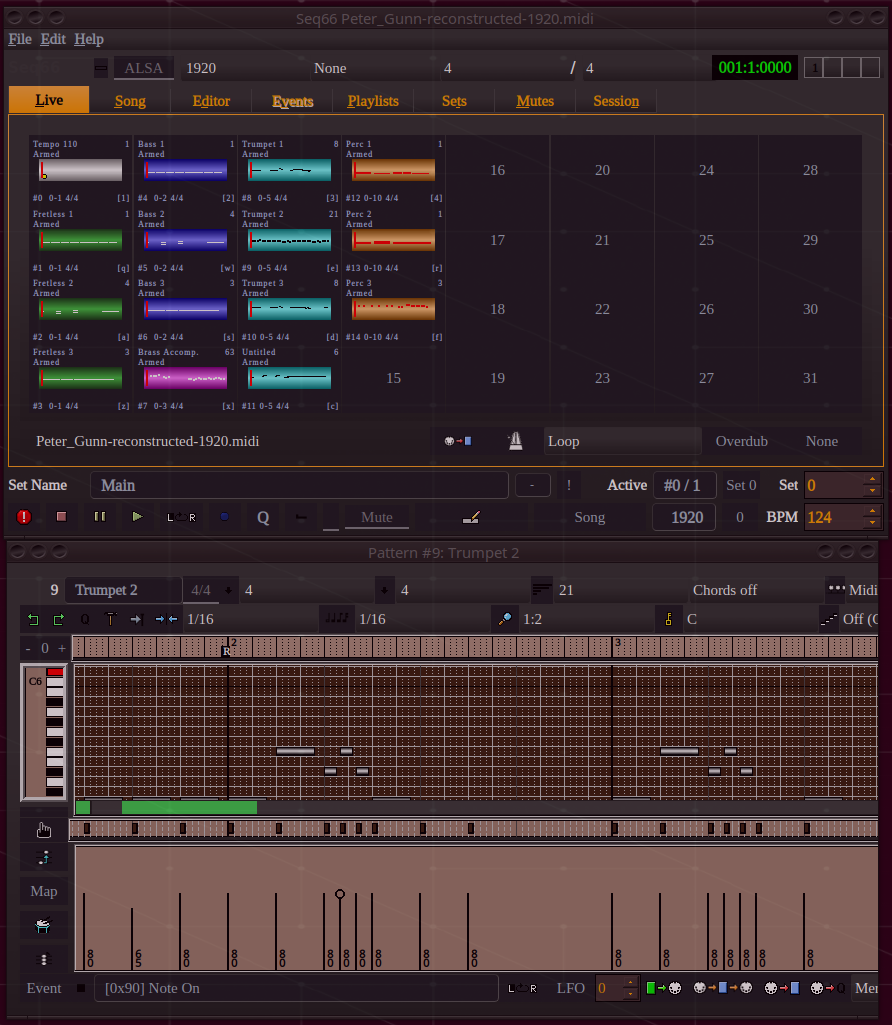
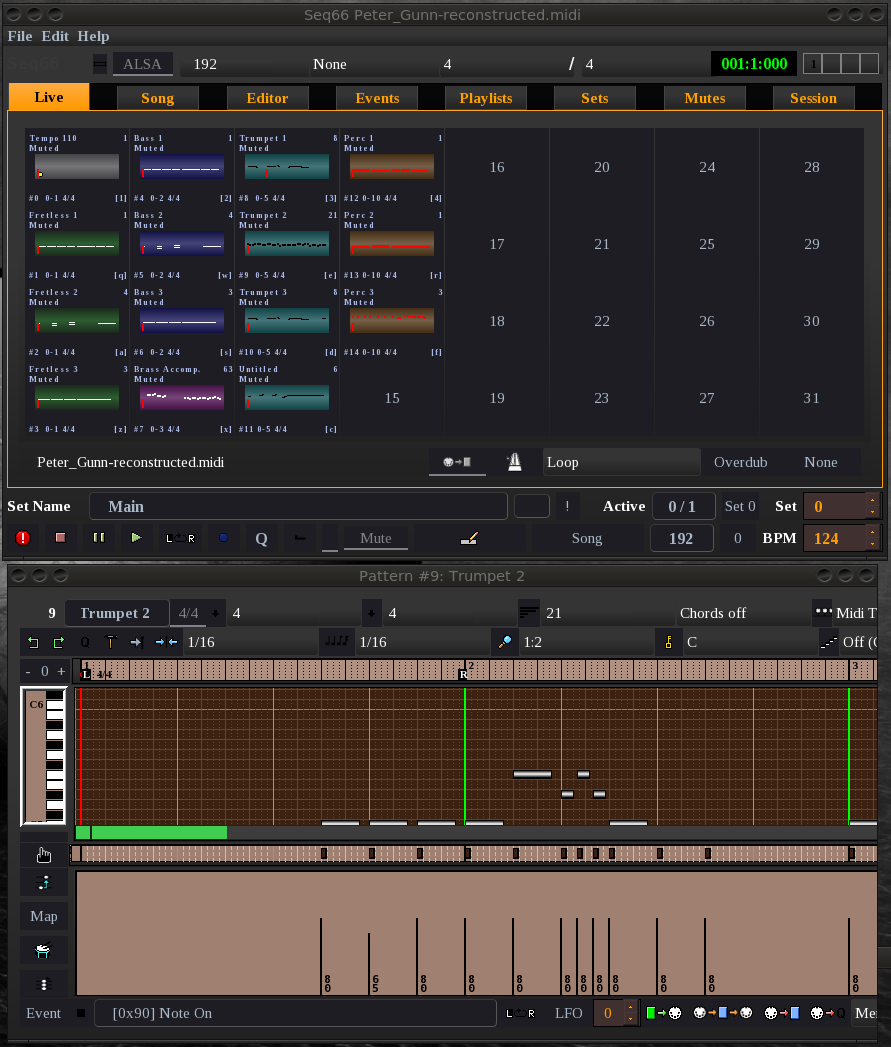
Fixes to palette to draw gridlines properly.

diff --git a/seq_qt5/src/gui_palette_qt5.cpp b/seq_qt5/src/gui_palette_qt5.cpp
@@ -221,16 +221,6 @@ grey_paint ()
     return global_palette().get_color(InvertibleColor::grey);
 }
 
-/**
- *  Beat paint uses the grey_paint.  Invertible, but the same color?
- */
-
-Color
-beat_paint ()
-{
-    return global_palette().get_color(InvertibleColor::dk_grey);
-}
-
 Color
 step_paint ()
 {
@@ -238,9 +228,9 @@ step_paint ()
 }
 
 Color
-extra_paint ()
+beat_paint ()
 {
-    return global_palette().get_color(InvertibleColor::extra);
+    return global_palette().get_color(InvertibleColor::beat);
 }
 
 Color
@@ -280,9 +270,9 @@ backnames_paint ()
 }
 
 Color
-extra_02_paint ()
+octave_paint ()
 {
-    return global_palette().get_color(InvertibleColor::extra_02);
+    return global_palette().get_color(InvertibleColor::octave);
 }
 
 Color
@@ -529,43 +519,40 @@ gui_palette_qt5::clear_invertible ()
 void
 gui_palette_qt5::reset_backgrounds ()
 {
-    m_palette.clear();                                      /* just in case */
-    m_palette.add(PaletteColor::none,        m_white,    "None");
-    m_palette.add(PaletteColor::black,       m_black,    "Black");
-    m_palette.add(PaletteColor::red,         m_red,      "Red");
-    m_palette.add(PaletteColor::green,       m_green,    "Green");
-    m_palette.add(PaletteColor::yellow,      m_yellow,   "Yellow");
-    m_palette.add(PaletteColor::blue,        m_blue,     "Blue");
-    m_palette.add(PaletteColor::magenta,     m_magenta,  "Magenta");
-    m_palette.add(PaletteColor::cyan,        m_cyan,     "Cyan");
-    m_palette.add(PaletteColor::white,       m_white,    "White");
-
-    m_palette.add(PaletteColor::dk_black,    m_dk_black, "Dark Black");
-    m_palette.add(PaletteColor::dk_red,      m_dk_red,   "Dark Red");
-    m_palette.add(PaletteColor::dk_green,    m_dk_green, "Dark Green");
-    m_palette.add(PaletteColor::dk_yellow,   m_yellow,   "Dark Yellow");
-    m_palette.add(PaletteColor::dk_blue,     m_dk_blue,  "Dark Blue");
-    m_palette.add(PaletteColor::dk_magenta,  m_dk_magenta, "Dark Magenta");
-    m_palette.add(PaletteColor::dk_cyan,     m_dk_cyan,  "Dark Cyan");
-    m_palette.add(PaletteColor::dk_white,    m_dk_white, "Dark White");
-
-    m_palette.add(PaletteColor::orange,      m_orange,   "Orange");
-    m_palette.add(PaletteColor::pink,        m_pink,     "Pink");
-    m_palette.add(PaletteColor::color_18,    m_color_18, "Pale Green");
-    m_palette.add(PaletteColor::color_19,    m_color_19, "Khaki");
-    m_palette.add(PaletteColor::color_20,    m_color_20, "Light Blue");
-    m_palette.add(PaletteColor::color_21,    m_color_21, "Light Magenta");
-    m_palette.add(PaletteColor::color_22,    m_color_22, "Turquoise");
-    m_palette.add(PaletteColor::grey,        m_grey,     "Grey");
-
-    m_palette.add(PaletteColor::dk_orange,   m_dk_orange, "Dk Orange");
-    m_palette.add(PaletteColor::dk_pink,     m_dk_pink,   "Dark Pink");
-    m_palette.add(PaletteColor::color_26,    m_color_26,  "Sea Green");
-    m_palette.add(PaletteColor::color_27,    m_color_27,  "Dark Khaki");
-    m_palette.add(PaletteColor::color_28,    m_color_28,  "Dark Slate Blue");
-    m_palette.add(PaletteColor::color_29,    m_color_29,  "Dark Violet");
-    m_palette.add(PaletteColor::color_30,    m_lt_grey,   "Light Grey");
-    m_palette.add(PaletteColor::dk_grey,     m_dk_grey,   "Dark Grey");
+    m_palette.clear();
+    m_palette.add(PaletteColor::none,        m_white,       "None");
+    m_palette.add(PaletteColor::black,       m_black,       "Black");
+    m_palette.add(PaletteColor::red,         m_red,         "Red");
+    m_palette.add(PaletteColor::green,       m_green,       "Green");
+    m_palette.add(PaletteColor::yellow,      m_yellow,      "Yellow");
+    m_palette.add(PaletteColor::blue,        m_blue,        "Blue");
+    m_palette.add(PaletteColor::magenta,     m_magenta,     "Magenta");
+    m_palette.add(PaletteColor::cyan,        m_cyan,        "Cyan");
+    m_palette.add(PaletteColor::white,       m_white,       "White");
+    m_palette.add(PaletteColor::dk_black,    m_dk_black,    "Dark Black");
+    m_palette.add(PaletteColor::dk_red,      m_dk_red,      "Dark Red");
+    m_palette.add(PaletteColor::dk_green,    m_dk_green,    "Dark Green");
+    m_palette.add(PaletteColor::dk_yellow,   m_yellow,      "Dark Yellow");
+    m_palette.add(PaletteColor::dk_blue,     m_dk_blue,     "Dark Blue");
+    m_palette.add(PaletteColor::dk_magenta,  m_dk_magenta,  "Dark Magenta");
+    m_palette.add(PaletteColor::dk_cyan,     m_dk_cyan,     "Dark Cyan");
+    m_palette.add(PaletteColor::dk_white,    m_dk_white,    "Dark White");
+    m_palette.add(PaletteColor::orange,      m_orange,      "Orange");
+    m_palette.add(PaletteColor::pink,        m_pink,        "Pink");
+    m_palette.add(PaletteColor::color_18,    m_color_18,    "Pale Green");
+    m_palette.add(PaletteColor::color_19,    m_color_19,    "Khaki");
+    m_palette.add(PaletteColor::color_20,    m_color_20,    "Light Blue");
+    m_palette.add(PaletteColor::color_21,    m_color_21,    "Light Magenta");
+    m_palette.add(PaletteColor::color_22,    m_color_22,    "Turquoise");
+    m_palette.add(PaletteColor::grey,        m_grey,        "Grey");
+    m_palette.add(PaletteColor::dk_orange,   m_dk_orange,   "Dk Orange");
+    m_palette.add(PaletteColor::dk_pink,     m_dk_pink,     "Dark Pink");
+    m_palette.add(PaletteColor::color_26,    m_color_26,    "Sea Green");
+    m_palette.add(PaletteColor::color_27,    m_color_27,    "Dark Khaki");
+    m_palette.add(PaletteColor::color_28,    m_color_28,    "Dark Slate Blue");
+    m_palette.add(PaletteColor::color_29,    m_color_29,    "Dark Violet");
+    m_palette.add(PaletteColor::color_30,    m_lt_grey,     "Light Grey");
+    m_palette.add(PaletteColor::dk_grey,     m_dk_grey,     "Dark Grey");
 }
 
 /**
@@ -575,7 +562,7 @@ gui_palette_qt5::reset_backgrounds ()
 void
 gui_palette_qt5::reset_pens ()
 {
-    m_pen_palette.clear();                  /* just in case */
+    m_pen_palette.clear();
     m_pen_palette.add(PaletteColor::none,         m_black,    "Black");
     m_pen_palette.add(PaletteColor::black,        m_white,    "White");
     m_pen_palette.add(PaletteColor::red,          m_white,    "White");
@@ -630,14 +617,14 @@ gui_palette_qt5::reset_invertibles ()
     m_nrm_palette.add(InvertibleColor::grey,      m_grey,     "Medium Line");
     m_nrm_palette.add(InvertibleColor::dk_grey,   m_dk_grey,  "Beat Line");
     m_nrm_palette.add(InvertibleColor::lt_grey,   m_lt_grey,  "Step Line");
-    m_nrm_palette.add(InvertibleColor::extra,     m_dk_red,   "Extra");
+    m_nrm_palette.add(InvertibleColor::beat,      m_black,    "Beat");
     m_nrm_palette.add(InvertibleColor::near,      m_yellow,   "Near");
     m_nrm_palette.add(InvertibleColor::backtime,  m_grey,     "Time Brush");
     m_nrm_palette.add(InvertibleColor::backdata,  m_grey,     "Data Brush");
     m_nrm_palette.add(InvertibleColor::backevent, m_grey,     "Event Brush");
     m_nrm_palette.add(InvertibleColor::backkeys,  m_grey,     "Keys Brush");
     m_nrm_palette.add(InvertibleColor::backnames, m_grey,     "Names Brush");
-    m_nrm_palette.add(InvertibleColor::extra_02,  m_grey,     "Extra 2");
+    m_nrm_palette.add(InvertibleColor::octave,    m_grey,     "Octave Line");
     m_nrm_palette.add(InvertibleColor::extra_03,  m_grey,     "Extra 3");
 
     m_inv_palette.clear();
@@ -656,14 +643,14 @@ gui_palette_qt5::reset_invertibles ()
     m_inv_palette.add(InvertibleColor::grey,      m_grey,     "Medium Line");
     m_inv_palette.add(InvertibleColor::dk_grey,   m_white,    "Beat Line");
     m_inv_palette.add(InvertibleColor::lt_grey,   m_lt_grey,  "Step Line");
-    m_inv_palette.add(InvertibleColor::extra,     m_dk_green, "Extra");
+    m_inv_palette.add(InvertibleColor::beat,      m_white,    "Beat");
     m_inv_palette.add(InvertibleColor::near,      m_yellow,   "Near");
     m_inv_palette.add(InvertibleColor::backtime,  m_grey,     "Time Brush");
     m_inv_palette.add(InvertibleColor::backdata,  m_grey,     "Data Brush");
     m_inv_palette.add(InvertibleColor::backevent, m_grey,     "Event Brush");
     m_inv_palette.add(InvertibleColor::backkeys,  m_grey,     "Keys Brush");
     m_inv_palette.add(InvertibleColor::backnames, m_grey,     "Names Brush");
-    m_inv_palette.add(InvertibleColor::extra_02,  m_grey,     "Extra 2");
+    m_inv_palette.add(InvertibleColor::octave,    m_grey,     "Octave Line");
     m_inv_palette.add(InvertibleColor::extra_03,  m_grey,     "Extra 3");
 
     m_empty_brush->setColor(get_color(InvertibleColor::white));

diff --git a/seq_qt5/src/qseditoptions.cpp b/seq_qt5/src/qseditoptions.cpp
@@ -24,7 +24,7 @@
  * \library       seq66 application
  * \author        Chris Ahlstrom
  * \date          2018-01-01
- * \updates       2023-10-16
+ * \updates       2023-10-20
  * \license       GNU GPLv2 or above
  *
  *      This version is located in Edit / Preferences.
@@ -1885,6 +1885,22 @@ qseditoptions::setup_tab_session ()
         ui->lineEditStyleSheet, SIGNAL(editingFinished()),
         this, SLOT(slot_stylesheet_filename())
     );
+
+    /*
+     * Meant for looking up a file-name just to get the base-name.
+     * This will save the user from having to rely on memory.
+     *
+     * Hidden for now.
+     */
+
+    ui->pushButtonLoadCtrl->hide();
+    ui->pushButtonLoadDrums->hide();
+    ui->pushButtonLoadMutes->hide();
+    ui->pushButtonLoadPalette->hide();
+    ui->pushButtonLoadPlaylist->hide();
+    ui->pushButtonLoadRc->hide();
+    ui->pushButtonLoadStyleSheet->hide();
+    ui->pushButtonLoadUsr->hide();
 }
 
 bool
@@ -2864,28 +2880,21 @@ qseditoptions::slot_palette_save_click ()
 void
 qseditoptions::slot_palette_save_now_click ()
 {
-    std::string palfile = rc().palette_filespec();
-    if (palfile.empty())
+    QString qs = ui->lineEditPalette->text();
+    std::string palfile = qs.toStdString();
+    if (! palfile.empty())
     {
-        QString qs = ui->lineEditPalette->text();
-        palfile = qs.toStdString();
+        /* TODO: ensure only base name is used */
+
         rc().palette_filename(palfile);
-        palfile = rc().palette_filespec();
     }
+    palfile = rc().palette_filespec();
     if (! palfile.empty())
     {
         if (save_palette(global_palette(), palfile))
-        {
-            /*
-             * TODO: report full file-path saved
-             */
-        }
+            file_message("Saved", palfile);
         else
-        {
-            /*
-             * TODO: report error
-             */
-        }
+            file_error("Save failed", palfile);
     }
 }
 

diff --git a/seq_qt5/src/qseqroll.cpp b/seq_qt5/src/qseqroll.cpp
@@ -25,7 +25,7 @@
  * \library       seq66 application
  * \author        Chris Ahlstrom
  * \date          2018-01-01
- * \updates       2023-10-19
+ * \updates       2023-10-20
  * \license       GNU GPLv2 or above
  *
  *  Please see the additional notes for the Gtkmm-2.4 version of this panel,
@@ -550,7 +550,7 @@ qseqroll::draw_grid (QPainter & painter, const QRect & r)
         int modkey = remkeys - scroll_offset_v() + octkey;
         int y = key * unit_height() + 2;
         if ((modkey % c_octave_size) == 0)
-            pen.setColor(fore_color());
+            pen.setColor(octave_paint());               /* fore_color()     */
         else
             pen.setColor(step_color());
 
@@ -560,7 +560,7 @@ qseqroll::draw_grid (QPainter & painter, const QRect & r)
         {
             if (! scales_policy(m_scale, modkey))       /* scales.cpp/hpp   */
             {
-                pen.setColor(fore_color());         /* Qt::lightGray        */
+                pen.setColor(fore_color());             /* Qt::lightGray    */
                 painter.setBrush(scale_brush());
                 painter.setPen(pen);
                 painter.drawRect(0, y + 1, r.width(), unit_height() - 1);
@@ -605,7 +605,7 @@ qseqroll::draw_grid (QPainter & painter, const QRect & r)
             enum Qt::PenStyle penstyle = Qt::SolidLine;
             if (tick % ticks_per_bar == 0)          /* solid line every bar */
             {
-                pen.setColor(fore_color());         /* Qt::black            */
+                pen.setColor(beat_paint());         /* fore_color()         */
                 penwidth = 2;
             }
             else if (tick % ticks_per_beat == 0)    /* light on every beat  */

diff --git a/libseq66/include/util/palette.hpp b/libseq66/include/util/palette.hpp
@@ -137,15 +137,15 @@ enum class InvertibleColor
     grey,               /**< Medium grid lines.                             */
     dk_grey,            /**< Heavy grid lines.                              */
     lt_grey,            /**< Light grid lines.                              */
-    extra,              /**< Just an additional color to make it even.      */
+    beat,               /**< For a medium-heavy beat line; was foreground.  */
     near,               /**< Mouse is near an event in a pane. Was yellow   */
     backtime,           /**< Used for the background of time-lines.         */
     backdata,           /**< Used for the background of data panes.         */
     backevent,          /**< Used for the background of the event pane.     */
     backkeys,           /**< Used for the background of the keys pane.      */
     backnames,          /**< Used for the background of perf names pane.    */
-    extra_02,           /**< Expansion */
-    extra_03,           /**< Expansion */
+    octave,             /**< Color for each octave line; was foreground.    */
+    extra_03,           /**< Expansion                                      */
     max                 /**< First illegal palette value, not in color set. */
 };
 

diff --git a/seq_qt5/include/gui_palette_qt5.hpp b/seq_qt5/include/gui_palette_qt5.hpp
@@ -343,16 +343,15 @@ extern Color white_key_paint ();
 extern Color progress_paint ();
 extern Color backseq_paint ();
 extern Color grey_paint ();
-extern Color beat_paint ();
 extern Color step_paint ();
-extern Color extra_paint ();
+extern Color beat_paint ();
 extern Color near_paint ();
 extern Color backtime_paint ();
 extern Color backdata_paint ();
 extern Color backevent_paint ();
 extern Color backkeys_paint ();
 extern Color backnames_paint ();
-extern Color extra_02_paint ();
+extern Color octave_paint ();
 extern Color extra_03_paint ();
 extern std::string get_color_name (PaletteColor index);
 extern std::string get_color_name_ex (PaletteColor index);

diff --git a/libseq66/src/cfg/rcsettings.cpp b/libseq66/src/cfg/rcsettings.cpp
@@ -1300,6 +1300,10 @@ rcsettings::clear_playlist (bool disable)
  *      The value to use to make the setting, if the string is not empty.
  *      If there is no period in the string, then ".usr" is appended to the
  *      end of the filename.
+ *
+ * TODO:
+ *
+ *      For these functions, investigate accepting empty values.
  */
 
 void

diff --git a/libseq66/include/cfg/rcsettings.hpp b/libseq66/include/cfg/rcsettings.hpp
@@ -475,7 +475,7 @@ private:
     bool m_palette_active;
 
     /**
-     *  Provides the name of a palette file to use.
+     *  Provides the base name of a palette file to use.
      */
 
     std::string m_palette_filename;
